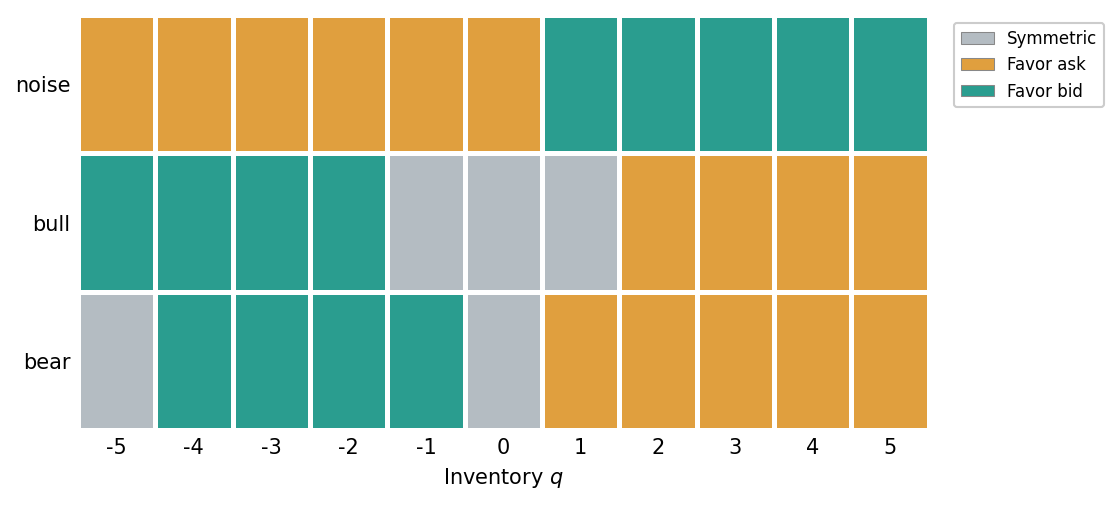
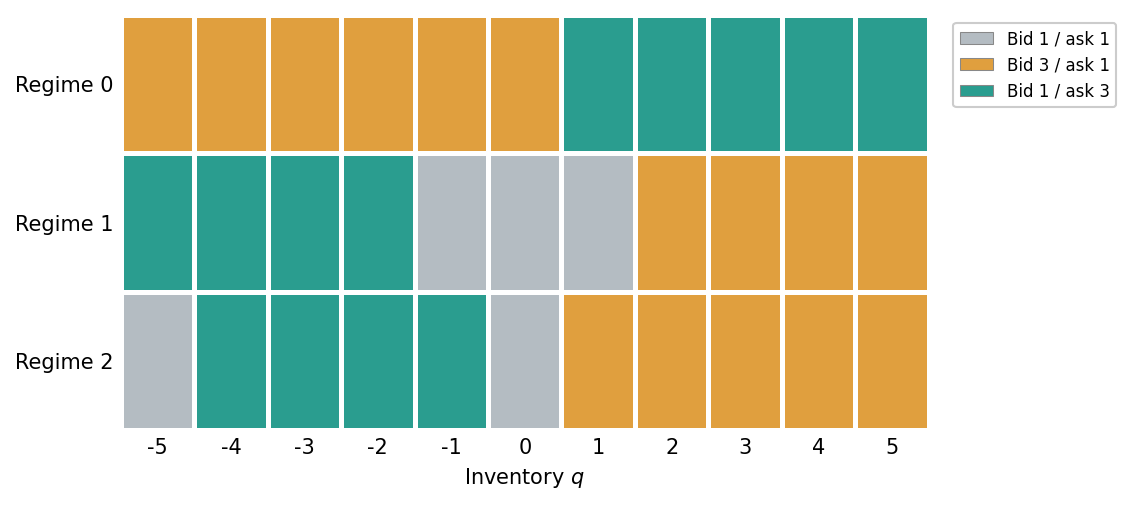
visuals

diff --git a/scripts/m5r_probe_confusion.py b/scripts/m5r_probe_confusion.py
@@ -1,0 +1,78 @@
+"""Recompute the existing linear probes and retain held-out regime confusion counts.
+
+Uses the same 500 rollouts, 400/100 trajectory split, seed keys, and frozen
+checkpoints as ``scripts.m5r_posterior_probe``. The archived probe summary
+contains aggregate accuracy but not per-class predictions, so those counts
+must be recovered by repeating the probe evaluation.
+"""
+from __future__ import annotations
+
+import json
+from pathlib import Path
+
+import numpy as np
+
+from evaluation.posterior_probe import load_experiment, probe_one_seed
+from utils.paths import analysis_dir, experiment_dir
+
+
+METHODS = ("rl2_concat", "rl2_hypernet", "varibad_concat", "varibad_hypernet")
+
+
+def main() -> None:
+    prior = json.loads((analysis_dir() / "m5r_posterior_vs_performance.json").read_text())
+    if prior["n_rollouts"] != 500 or prior["rollout_length"] != 128:
+        raise ValueError("Archived probe uses a different sampling protocol")
+
+    by_method = {}
+    for method in METHODS:
+        exp_dir = experiment_dir(f"m5r_final_{method}_e9")
+        seeds = sorted(int(p.stem.rsplit("_", 1)[1])
+                       for p in exp_dir.glob("checkpoint_seed_*.pkl"))
+        if seeds != list(range(20)):
+            raise ValueError(f"{method}: expected seeds 0–19, found {seeds}")
+        matrices = []
+        accuracies = []
+        for seed in seeds:
+            bundle = load_experiment(exp_dir, seed)
+            result = probe_one_seed(bundle, n_rollouts=500, rollout_length=128,
+                                    classifier="logistic", rng_key=seed)
+            counts = np.asarray(result["method"]["confusion_counts"], dtype=np.int64)
+            if counts.shape != (3, 3) or counts.sum() != 12_800:
+                raise ValueError(f"{method} seed {seed}: unexpected test count")
+            matrices.append(counts)
+            accuracies.append(result["method"]["test_acc"])
+            print(f"{method} seed {seed:02d}: accuracy={accuracies[-1]:.4f}", flush=True)
+
+        prior_acc = prior["per_method_per_env"]["e9"][method]["method_test_acc_per_seed"]
+        lexical_seed_order = [int(p.stem.rsplit("_", 1)[1])
+                              for p in sorted(exp_dir.glob("checkpoint_seed_*.pkl"))]
+        prior_by_seed = dict(zip(lexical_seed_order, prior_acc))
+        if not np.allclose(accuracies, [prior_by_seed[s] for s in seeds],
+                           atol=1e-10, rtol=0):
+            raise ValueError(f"{method}: recomputed accuracy differs from archived probe")
+        total = np.sum(matrices, axis=0)
+        errors = int(total.sum() - np.trace(total))
+        confusion_1_2 = int(total[1, 2] + total[2, 1])
+        by_method[method] = {
+            "seeds": seeds,
+            "per_seed_confusion_counts": [m.tolist() for m in matrices],
+            "confusion_counts": total.tolist(),
+            "row_normalized": (total / total.sum(axis=1, keepdims=True)).tolist(),
+            "n_test_steps": int(total.sum()),
+            "n_errors": errors,
+            "n_regime_1_2_confusions": confusion_1_2,
+            "fraction_of_errors_from_regime_1_2_confusion": confusion_1_2 / errors,
+            "mean_test_accuracy": float(np.mean(accuracies)),
+        }
+
+    output = analysis_dir() / "m5r_probe_confusion.json"
+    output.write_text(json.dumps({
+        "protocol": "linear probe; 500 rollouts per seed; 400 train, 100 test; 128 steps",
+        "by_method": by_method,
+    }, indent=2) + "\n")
+    print(output, flush=True)
+
+
+if __name__ == "__main__":
+    main()

diff --git a/scripts/make_tables.py b/scripts/make_tables.py
@@ -146,7 +146,7 @@ def _belief_table(metric: str, with_holm: bool = True) -> str | None:
     body = "\n".join(rows)
     spec = "ll" + "r" * (n_cols - 2)
     return (
-        "\\setlength{\\tabcolsep}{4pt}\n"
+        "\\setlength{\\tabcolsep}{3.5pt}\n"
         f"\\begin{{tabular}}{{{spec}}}\n"
         "\\toprule\n"
         f"{_banner(n_cols)}{head} \\\\\n"
@@ -219,6 +219,31 @@ TABLES = {
     "probe_brier": probe_brier,
     "integration_gap": integration_gap,
 }
+
+
+def probe_confusion() -> str | None:
+    """Held-out, row-normalized regime confusion from the saved probe rerun."""
+    data = _load(FINAL() / "m5r_probe_confusion.json")
+    if data is None:
+        return None
+    rows = []
+    for key, label in VARIANTS:
+        matrix = data["by_method"][key]["row_normalized"]
+        for regime, probabilities in enumerate(matrix):
+            shown_label = label if regime == 0 else ""
+            cells = " & ".join(f"${value:.3f}$" for value in probabilities)
+            rows.append(f"{shown_label} & ${regime}$ & {cells} \\\\")
+        rows.append("\\addlinespace")
+    return ("\\begin{tabular}{llrrr}\n"
+            "\\toprule\n"
+            "Method & True regime & Pred. $0$ & Pred. $1$ & Pred. $2$ \\\\\n"
+            "\\midrule\n"
+            + "\n".join(rows[:-1]) + "\n"
+            "\\bottomrule\n"
+            "\\end{tabular}\n")
+
+
+TABLES["probe_confusion"] = probe_confusion
 
 
 def main() -> int:

diff --git a/plotting/m2_plots.py b/plotting/m2_plots.py
@@ -32,9 +32,9 @@ from plotting.style import (
 )
 
 
-_REGIME_NAMES = ("noise", "bull", "bear")
+_REGIME_NAMES = ("Regime 0", "Regime 1", "Regime 2")
 _ACTION_NAMES = ("sym", "favor_ask", "favor_bid")
-_ACTION_LABELS = ("Symmetric", "Favor ask", "Favor bid")
+_ACTION_LABELS = ("Bid 1 / ask 1", "Bid 3 / ask 1", "Bid 1 / ask 3")
 
 
 def _regime_label(r: int) -> str:
@@ -77,7 +77,7 @@ def plot_policy_heatmap(vi: VIResult, env: MarketMakingV1, output_path: Path) ->
     yedges = np.arange(n_reg + 1) - 0.5
     ax.pcolormesh(xedges, yedges, grid, cmap=cmap, norm=norm,
                   edgecolors="white", linewidth=1.5)
-    ax.invert_yaxis()  # regime 0 (noise) on top, matching the row order
+    ax.invert_yaxis()  # regime 0 on top, matching the row order
     ax.set_yticks(range(n_reg))
     ax.set_yticklabels([_regime_label(r) for r in range(n_reg)])
     ax.set_xticks(range(n_inv))

diff --git a/evaluation/posterior_probe.py b/evaluation/posterior_probe.py
@@ -384,6 +384,9 @@ def train_probe(
         predictions = np.stack([
             clf.predict(test_belief_TND[t]) for t in range(T)
         ])
+        confusion_counts = np.zeros((n_cols, n_cols), dtype=np.int64)
+        np.add.at(confusion_counts,
+                  (test_regime_TN.reshape(-1), predictions.reshape(-1)), 1)
         age = np.full(test_regime_TN.shape, -1, dtype=np.int32)
         for rollout in range(test_regime_TN.shape[1]):
             latest_change = -1
@@ -420,6 +423,7 @@ def train_probe(
         "test_acc_since_change": accuracy_since_change,
         "test_count_since_change": count_since_change,
         "n_classes": int(clf.classes_.size),
+        "confusion_counts": confusion_counts.tolist(),
     }
     if kl_to_omega is not None:
         out["test_kl_to_omega"] = kl_to_omega

diff --git a/plotting/m5r_action_inventory_heatmap.py b/plotting/m5r_action_inventory_heatmap.py
@@ -50,7 +50,11 @@ def main() -> int:
         return 1
     with open(resolve_data(stats_path)) as f:
         stats = json.load(f)
-    action_names = stats["action_names"]
+    action_names = [
+        {"sym": "bid 1 / ask 1", "favor_ask": "bid 3 / ask 1",
+         "favor_bid": "bid 1 / ask 3"}.get(name, name)
+        for name in stats["action_names"]
+    ]
     n_regimes = stats["n_regimes"]
     inv_max = stats.get("inv_max", 5)
     n_inv = 2 * inv_max + 1
